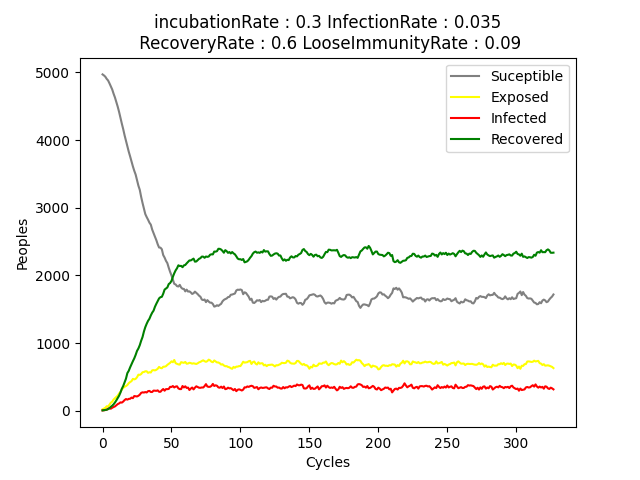
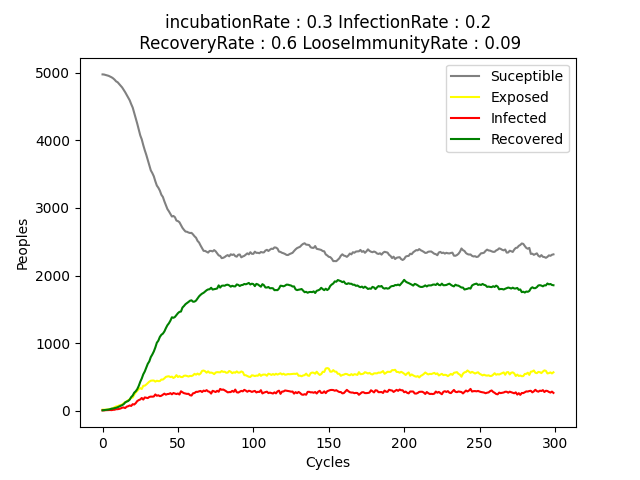
added an agent that roll for infection only once if there is infected neighbors

diff --git a/src/main/java/sma/SEIRS_SMA.java b/src/main/java/sma/SEIRS_SMA.java
@@ -1,5 +1,6 @@
 package sma;
 
+import agents.FairInfectionRWAgent;
 import agents.SEIRSAgent;
 import agents.states.InfectedSEIRSState;
 import environment.SEIRSEnvironment;
@@ -27,7 +28,7 @@ import java.util.Random;
 public class SEIRS_SMA implements SMA{
 
     private Parameters parameters;
-    private RandomWalkingAgent[] agents;
+    private SEIRSAgent[] agents;
     private SEIRSEnvironment environment;
     private Scheduler scheduler;
     private StatisticsCanvas statisticsCanvas;
@@ -78,7 +79,12 @@ public class SEIRS_SMA implements SMA{
     private void initPopulation() {
         for (int i = 0; i<parameters.getPopulation();i++) {
             Point position = new Point(r.nextInt(parameters.getSize()),r.nextInt(parameters.getSize()));
-            RandomWalkingAgent agent = new RandomWalkingAgent(position,parameters.getSeed()+i,environment);
+            SEIRSAgent agent;
+            if (parameters.isInfectionStacks()) {
+                agent = new RandomWalkingAgent(position,parameters.getSeed()+i,environment);
+            } else {
+                agent = new FairInfectionRWAgent(position,parameters.getSeed()+i,environment);
+            }
             agents[i] = agent;
         }
     }
@@ -112,7 +118,9 @@ public class SEIRS_SMA implements SMA{
         initPopulation();
         infectPatientZero();
         initScheduler();
-        initGraphics();
+        if (parameters.isGraphicalMode()) {
+            initGraphics();
+        }
     }
 
 

diff --git a/src/main/java/agents/FairInfectionRWAgent.java b/src/main/java/agents/FairInfectionRWAgent.java
@@ -1,0 +1,25 @@
+package agents;
+
+import environment.SEIRSEnvironment;
+import utils.YamlReader;
+
+import java.awt.*;
+
+public class FairInfectionRWAgent extends RandomWalkingAgent implements SEIRSAgent {
+
+    public FairInfectionRWAgent(Point position, int seed, SEIRSEnvironment environment) {
+        super(position, seed, environment);
+    }
+
+    @Override
+    public boolean isExposed() {
+        boolean isExposed = false;
+        int roll = r.nextInt(10000)+1;
+        if (this.environment.getInfectedNeighbors(position).size() != 0) {
+            if (roll <= YamlReader.getParams().getInfectionRate()*10000) {
+                isExposed = true;
+            }
+        }
+        return isExposed;
+    }
+}

diff --git a/src/main/java/models/Parameters.java b/src/main/java/models/Parameters.java
@@ -15,6 +15,7 @@ public class Parameters {
     private int timeBetweenCycles;
     private boolean synchronousMode;
     private boolean graphicalMode;
+    private boolean infectionStacks;
 
     public Parameters() {
     }
@@ -66,4 +67,8 @@ public class Parameters {
     public boolean isGraphicalMode() { return graphicalMode; }
 
     public void setGraphicalMode(boolean graphicalMode) { this.graphicalMode = graphicalMode; }
+
+    public boolean isInfectionStacks() { return infectionStacks; }
+
+    public void setInfectionStacks(boolean infectionStacks) { this.infectionStacks = infectionStacks; }
 }

diff --git a/src/main/java/agents/RandomWalkingAgent.java b/src/main/java/agents/RandomWalkingAgent.java
@@ -11,10 +11,10 @@ import java.util.Random;
 
 public class RandomWalkingAgent implements SEIRSAgent {
 
-    private Point position;
-    private final Random r;
-    private final SEIRSEnvironment environment;
-    private SEIRSState state;
+    protected Point position;
+    protected final Random r;
+    protected final SEIRSEnvironment environment;
+    protected SEIRSState state;
 
     public RandomWalkingAgent(Point position, int seed, SEIRSEnvironment environment) {
         this.position = position;
